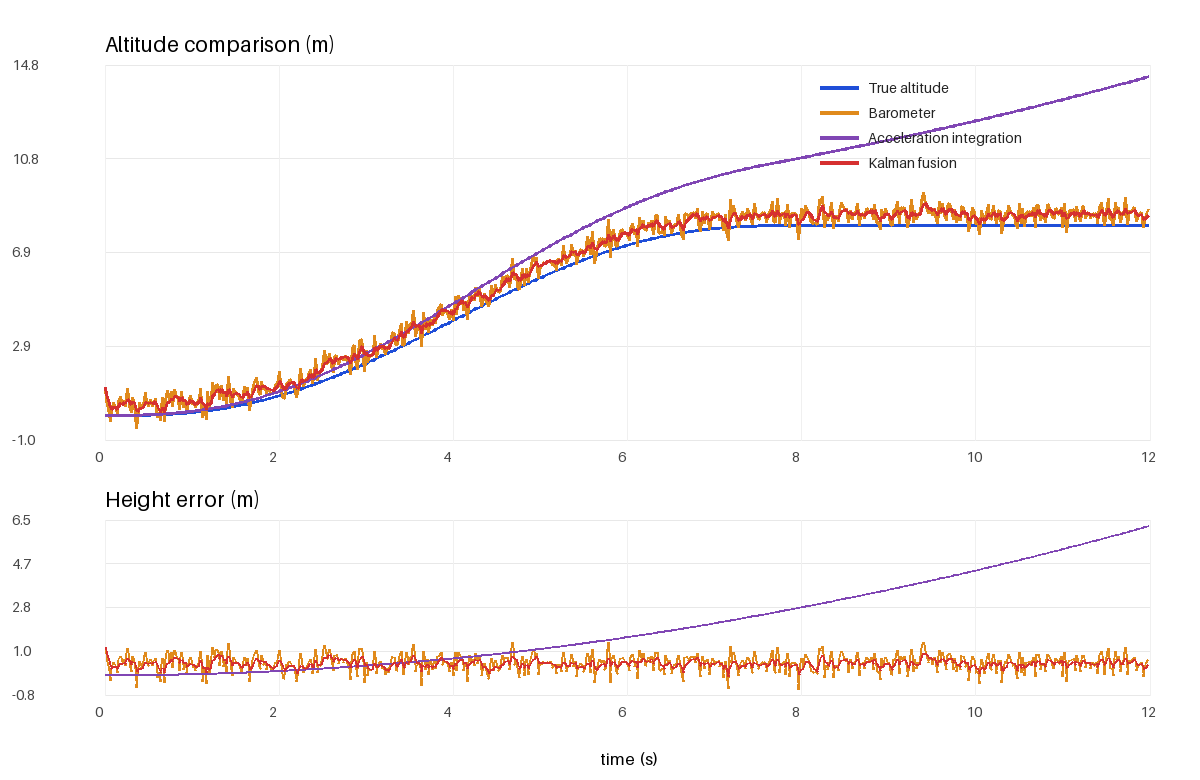
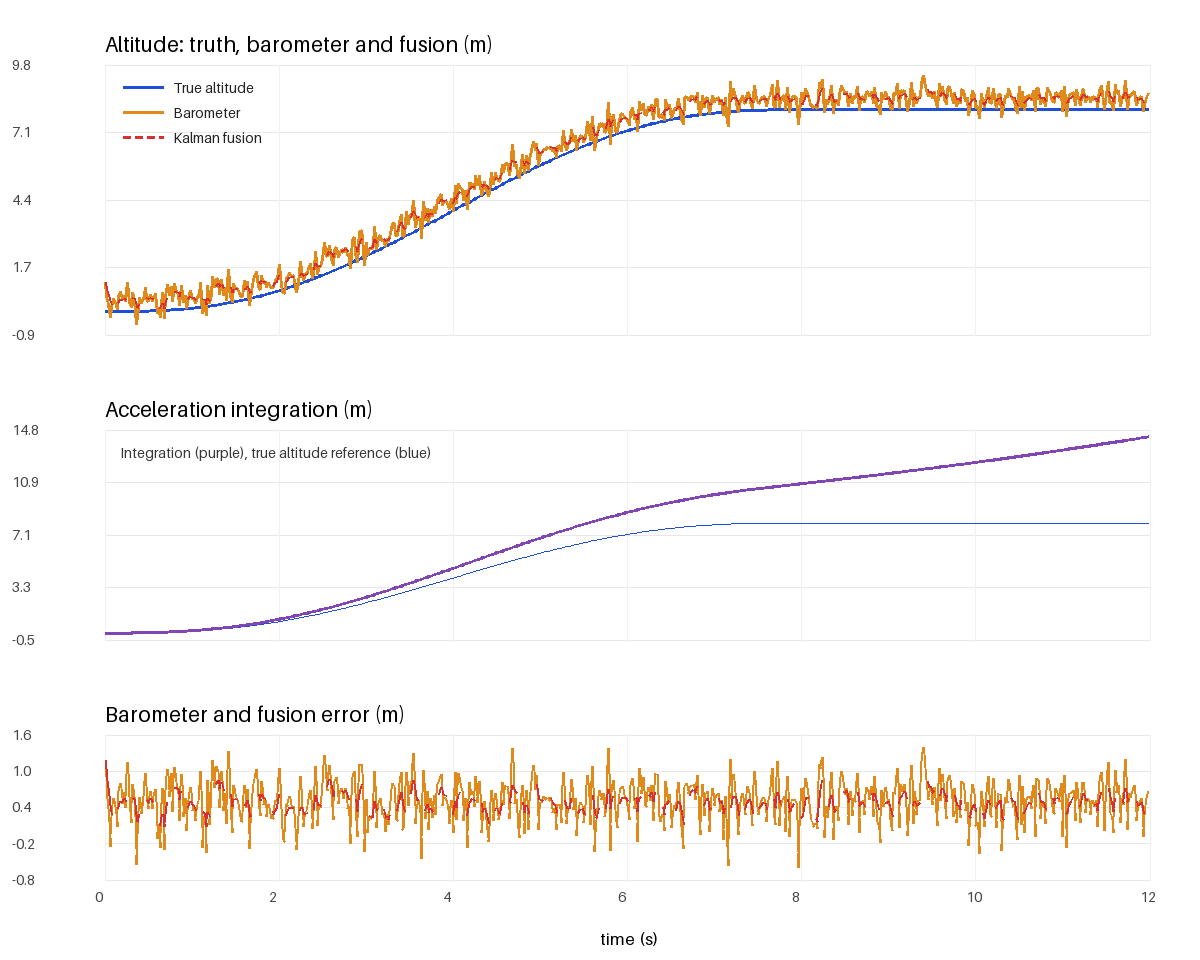
fix(air): refine altitude fusion review follow-up

diff --git a/src/air/uav_altitude_sensor_fusion/scripts/altitude_sim.py b/src/air/uav_altitude_sensor_fusion/scripts/altitude_sim.py
@@ -133,15 +133,17 @@ class AltitudeSimulation:
         font = make_font(17)
         small_font = make_font(14)
         title_font = make_font(21)
-        width, height = 1200, 780
+        width, height = 1200, 960
         image = Image.new("RGB", (width, height), "white")
         draw = ImageDraw.Draw(image)
         left, right = 105, 50
-        top = 65
+        altitude_top = 65
         panel_w = width - left - right
-        altitude_h = 375
-        error_top = 520
-        error_h = 175
+        altitude_h = 270
+        integration_top = 430
+        integration_h = 210
+        error_top = 735
+        error_h = 145
 
         colors = {
             "truth": (31, 78, 216),
@@ -163,7 +165,23 @@ class AltitudeSimulation:
             span = max(y_max - y_min, 1e-9)
             return panel_top + panel_height * (1.0 - (value - y_min) / span)
 
-        def draw_panel(panel_top, panel_height, y_min, y_max, title):
+        def points_for(key, panel_top, panel_height, y_min, y_max):
+            return [
+                (
+                    x_of(row["t"]),
+                    y_of(row[key], panel_top, panel_height, y_min, y_max),
+                )
+                for row in self.rows
+            ]
+
+        def draw_panel(
+            panel_top,
+            panel_height,
+            y_min,
+            y_max,
+            title,
+            show_x_labels=False,
+        ):
             draw.rectangle(
                 (left, panel_top, left + panel_w, panel_top + panel_height),
                 outline=(150, 150, 150),
@@ -188,87 +206,162 @@ class AltitudeSimulation:
                     fill=(240, 240, 240),
                     width=1,
                 )
-                draw.text(
-                    (x - 10, panel_top + panel_height + 8),
-                    "%.0f" % value,
-                    fill=(70, 70, 70),
-                    font=small_font,
-                )
+                if show_x_labels:
+                    draw.text(
+                        (x - 10, panel_top + panel_height + 8),
+                        "%.0f" % value,
+                        fill=(70, 70, 70),
+                        font=small_font,
+                    )
 
         def draw_series(key, panel_top, panel_height, y_min, y_max, width_px=3):
-            points = [
-                (
-                    x_of(row["t"]),
-                    y_of(row[key], panel_top, panel_height, y_min, y_max),
-                )
-                for row in self.rows
-            ]
+            points = points_for(key, panel_top, panel_height, y_min, y_max)
             if len(points) > 1:
                 draw.line(points, fill=colors[key], width=width_px)
 
-        all_values = [row["truth"] for row in self.rows] + [
-            row["barometer"] for row in self.rows
-        ] + [row["accel_integrated"] for row in self.rows] + [
-            row["fused"] for row in self.rows
-        ]
-        altitude_low = min(all_values) - 0.5
-        altitude_high = max(all_values) + 0.5
-        draw_panel(
-            top,
-            altitude_h,
-            altitude_low,
-            altitude_high,
-            "Altitude comparison (m)",
-        )
-        for key in ("truth", "barometer", "accel_integrated", "fused"):
-            draw_series(key, top, altitude_h, altitude_low, altitude_high)
-
-        legend_x = left + panel_w - 330
-        legend_y = top + 14
-        for index, key in enumerate(
-            ("truth", "barometer", "accel_integrated", "fused")
+        def draw_dashed_series(
+            key,
+            panel_top,
+            panel_height,
+            y_min,
+            y_max,
+            width_px=2,
+            dash_segments=4,
+            color_key=None,
         ):
-            item_y = legend_y + index * 25
-            draw.line(
-                (legend_x, item_y + 8, legend_x + 38, item_y + 8),
-                fill=colors[key],
-                width=4,
-            )
+            points = points_for(key, panel_top, panel_height, y_min, y_max)
+            line_color = colors[color_key or key]
+            for index, (start, end) in enumerate(zip(points, points[1:])):
+                if (index // dash_segments) % 2 == 0:
+                    draw.line(
+                        (start, end), fill=line_color, width=width_px
+                    )
+
+        def draw_legend_item(key, x, y, dashed=False):
+            if dashed:
+                for offset in range(0, 40, 12):
+                    draw.line(
+                        (x + offset, y + 8, x + min(offset + 7, 40), y + 8),
+                        fill=colors[key],
+                        width=3,
+                    )
+            else:
+                draw.line(
+                    (x, y + 8, x + 40, y + 8),
+                    fill=colors[key],
+                    width=3,
+                )
             draw.text(
-                (legend_x + 48, item_y),
+                (x + 50, y),
                 labels[key],
                 fill=(35, 35, 35),
                 font=small_font,
             )
 
-        error_keys = ("baro_error", "integrated_error", "fused_error")
+        altitude_values = [row["truth"] for row in self.rows] + [
+            row["barometer"] for row in self.rows
+        ] + [row["fused"] for row in self.rows]
+        altitude_low = min(altitude_values) - 0.4
+        altitude_high = max(altitude_values) + 0.4
+        draw_panel(
+            altitude_top,
+            altitude_h,
+            altitude_low,
+            altitude_high,
+            "Altitude: truth, barometer and fusion (m)",
+        )
+        draw_series("truth", altitude_top, altitude_h, altitude_low, altitude_high)
+        draw_series(
+            "barometer",
+            altitude_top,
+            altitude_h,
+            altitude_low,
+            altitude_high,
+        )
+        draw_dashed_series(
+            "fused",
+            altitude_top,
+            altitude_h,
+            altitude_low,
+            altitude_high,
+        )
+
+        legend_x = left + 18
+        legend_y = altitude_top + 14
+        draw_legend_item("truth", legend_x, legend_y)
+        draw_legend_item("barometer", legend_x, legend_y + 25)
+        draw_legend_item("fused", legend_x, legend_y + 50, dashed=True)
+
+        integration_values = [row["accel_integrated"] for row in self.rows] + [
+            row["truth"] for row in self.rows
+        ]
+        integration_low = min(integration_values) - 0.5
+        integration_high = max(integration_values) + 0.5
+        draw_panel(
+            integration_top,
+            integration_h,
+            integration_low,
+            integration_high,
+            "Acceleration integration (m)",
+        )
+        draw_series(
+            "truth",
+            integration_top,
+            integration_h,
+            integration_low,
+            integration_high,
+            width_px=1,
+        )
+        draw_series(
+            "accel_integrated",
+            integration_top,
+            integration_h,
+            integration_low,
+            integration_high,
+        )
+        draw.text(
+            (left + 15, integration_top + 14),
+            "Integration (purple), true altitude reference (blue)",
+            fill=(55, 55, 55),
+            font=small_font,
+        )
+
+        error_keys = ("baro_error", "fused_error")
         error_values = [
             row[key] for row in self.rows for key in error_keys
         ]
-        error_low = min(error_values) - 0.25
-        error_high = max(error_values) + 0.25
+        error_low = min(error_values) - 0.2
+        error_high = max(error_values) + 0.2
         draw_panel(
             error_top,
             error_h,
             error_low,
             error_high,
-            "Height error (m)",
+            "Barometer and fusion error (m)",
+            show_x_labels=True,
         )
-        for key in error_keys:
-            source = {
-                "baro_error": "barometer",
-                "integrated_error": "accel_integrated",
-                "fused_error": "fused",
-            }[key]
-            points = [
-                (
-                    x_of(row["t"]),
-                    y_of(row[key], error_top, error_h, error_low, error_high),
-                )
-                for row in self.rows
-            ]
+        error_sources = {
+            "baro_error": "barometer",
+            "fused_error": "fused",
+        }
+        for key in ("baro_error", "fused_error"):
+            source = error_sources[key]
+            points = points_for(
+                key, error_top, error_h, error_low, error_high
+            )
             if len(points) > 1:
-                draw.line(points, fill=colors[source], width=2)
+                if key == "fused_error":
+                    draw_dashed_series(
+                        key,
+                        error_top,
+                        error_h,
+                        error_low,
+                        error_high,
+                        width_px=2,
+                        color_key=source,
+                    )
+                else:
+                    draw.line(points, fill=colors[source], width=2)
         draw.text(
             (left + panel_w / 2 - 28, height - 32),
             "time (s)",

diff --git a/src/air/uav_altitude_sensor_fusion/test/test_altitude_filter.py b/src/air/uav_altitude_sensor_fusion/test/test_altitude_filter.py
@@ -1,14 +1,18 @@
 #!/usr/bin/env python3
+import io
 import os
 import sys
 import unittest
+from contextlib import redirect_stderr
 
-sys.path.insert(0, os.path.abspath(
-    os.path.join(os.path.dirname(__file__), "..", "scripts")
-))
+test_dir = os.path.dirname(os.path.abspath(__file__))
+for module_dir in (os.path.abspath(os.path.join(test_dir, "..", "scripts")), test_dir):
+    if os.path.isdir(module_dir):
+        sys.path.insert(0, module_dir)
 
 from altitude_filter import AltitudeKalman, rmse  # noqa: E402
 from altitude_sim import AltitudeSimulation, truth_at  # noqa: E402
+from main import main as cli_main  # noqa: E402
 
 
 class AltitudeFilterTest(unittest.TestCase):
@@ -41,6 +45,11 @@ class AltitudeFilterTest(unittest.TestCase):
     def test_rmse(self):
         self.assertAlmostEqual(rmse([1.0, 2.0], [0.0, 0.0]), (2.5) ** 0.5)
 
+    def test_offline_cli_rejects_unknown_arguments(self):
+        with redirect_stderr(io.StringIO()):
+            with self.assertRaises(SystemExit):
+                cli_main(["--duraton", "12"])
+
 
 if __name__ == "__main__":
-    unittest.main()
+    unittest.main(argv=[sys.argv[0]])

diff --git a/src/air/uav_altitude_sensor_fusion/scripts/main.py b/src/air/uav_altitude_sensor_fusion/scripts/main.py
@@ -51,10 +51,12 @@ def main(argv=None):
     parser.add_argument("--csv", default="")
     parser.add_argument("--plot", default="")
     parser.add_argument("--ros", action="store_true", help=argparse.SUPPRESS)
-    args, ros_args = parser.parse_known_args(argv)
-    if args.ros:
+    raw_argv = list(sys.argv[1:] if argv is None else argv)
+    if "--ros" in raw_argv:
+        args, ros_args = parser.parse_known_args(raw_argv)
         ros_main(args, ros_args)
         return 0
+    args = parser.parse_args(raw_argv)
     _, metrics = run_simulation(
         duration=args.duration,
         rate_hz=args.rate,

diff --git a/docs/air/uav_altitude_sensor_fusion.md b/docs/air/uav_altitude_sensor_fusion.md
@@ -85,17 +85,29 @@ python3 scripts/main.py --duration 12 --rate 50
 气压高度持续修正，但仍受气压计 `0.45 m` 常值偏置限制。滤波器状态不含偏置项，
 因此该实验不能消除这个常值误差。
 
-响应图同时给出真值、原始气压高度、加速度积分高度和融合高度，并附三类高度误差
-曲线、图例及坐标刻度。
+响应图上层比较真值、原始气压高度和融合高度；加速度积分单独放在中间面板，避免其
+较大漂移压缩另外三条曲线；下层比较气压和融合误差。融合曲线使用较细的红色虚线，
+因此气压曲线在两者接近时仍可辨认。
 
 ## 测试
+
+catkin 自动测试：
+
+```bash
+cd ~/catkin_ws
+catkin_make run_tests_uav_altitude_sensor_fusion
+catkin_test_results
+```
+
+单独运行 unittest：
 
 ```bash
 python3 -m unittest discover -s test -v
 ```
 
-共 5 项测试，包含起飞真值边界、滤波器预测、静止偏置收敛、RMSE 以及融合效果
-相对气压高度的改善检查。
+共 6 项测试，包含起飞真值边界、滤波器预测、静止偏置收敛、RMSE、融合效果相对
+气压高度的改善检查，以及离线 CLI 对错误参数的拒绝。`main.py` 只在 `--ros` 分支
+接收 roslaunch 附加参数，纯 Python 模式仍使用严格参数解析。
 
 ## 范围限制
 

diff --git a/src/air/uav_altitude_sensor_fusion/README.md b/src/air/uav_altitude_sensor_fusion/README.md
@@ -34,6 +34,16 @@ python3 scripts/main.py --duration 12 --rate 50
 
 ## 测试
 
+catkin 自动测试：
+
+```bash
+cd ~/catkin_ws
+catkin_make run_tests_uav_altitude_sensor_fusion
+catkin_test_results
+```
+
+也可以单独运行 unittest：
+
 ```bash
 python3 -m unittest discover -s test -v
 ```
